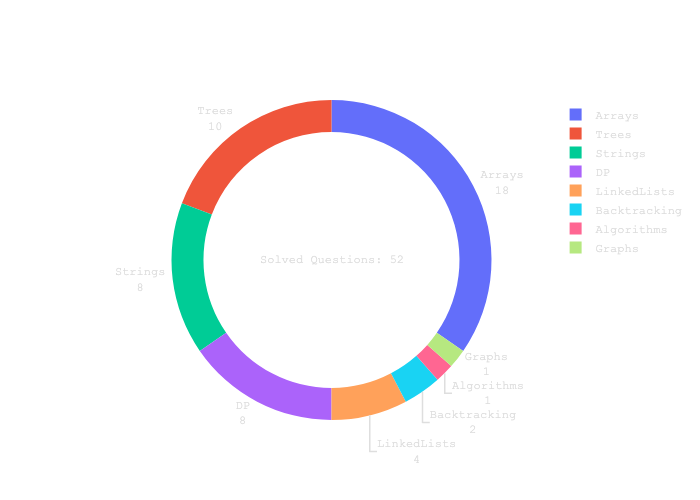
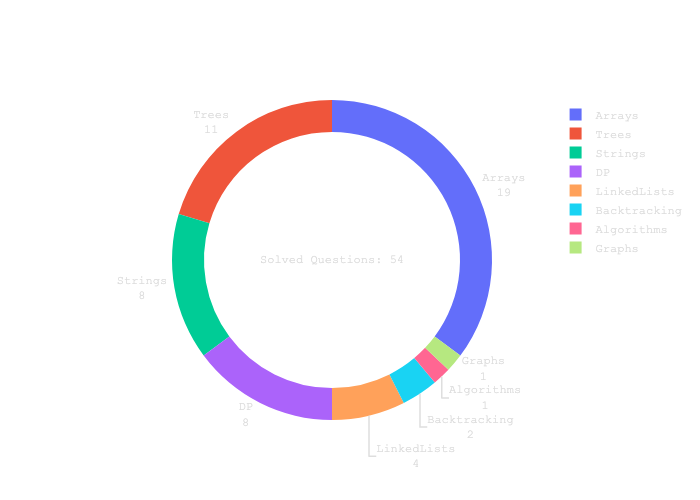
reverse B tree

diff --git a/Arrays/minStack.py b/Arrays/minStack.py
@@ -1,0 +1,27 @@
+class MinStack:
+    def __init__(self) -> None:
+        self.stack = []
+        self.minIndex = -1
+
+    def push(self, val: int) -> None:
+        if self.minIndex < 0:
+            self.minIndex = 0
+        else:
+            if val < self.stack[self.minIndex]:
+                self.minIndex = 0
+            else:
+                self.minIndex += 1
+        self.stack.insert(0, val)
+
+    def pop(self) -> int:
+        if self.minIndex != 0:
+            self.minIndex -= 1
+        ret = self.stack[0]
+        self.stack = self.stack[1:]
+        return ret
+
+    def top(self) -> int:
+        return self.stack[0]
+
+    def getMin(self) -> int:
+        return self.stack[self.minIndex]

diff --git a/Trees/invertBT.py b/Trees/invertBT.py
@@ -1,0 +1,19 @@
+from typing import Optional
+from utils.TreeNode import TreeNode, generateBT
+
+
+def invert(root: Optional[TreeNode]) -> Optional[TreeNode]:
+    if not root:
+        return None
+
+    left = right = None
+    if root.left:
+        left = invert(root.left)
+    if root.right:
+        right = invert(root.right)
+    root.left = right
+    root.right = left
+    return root
+
+
+print(invert(generateBT([2, 1, 3])))
